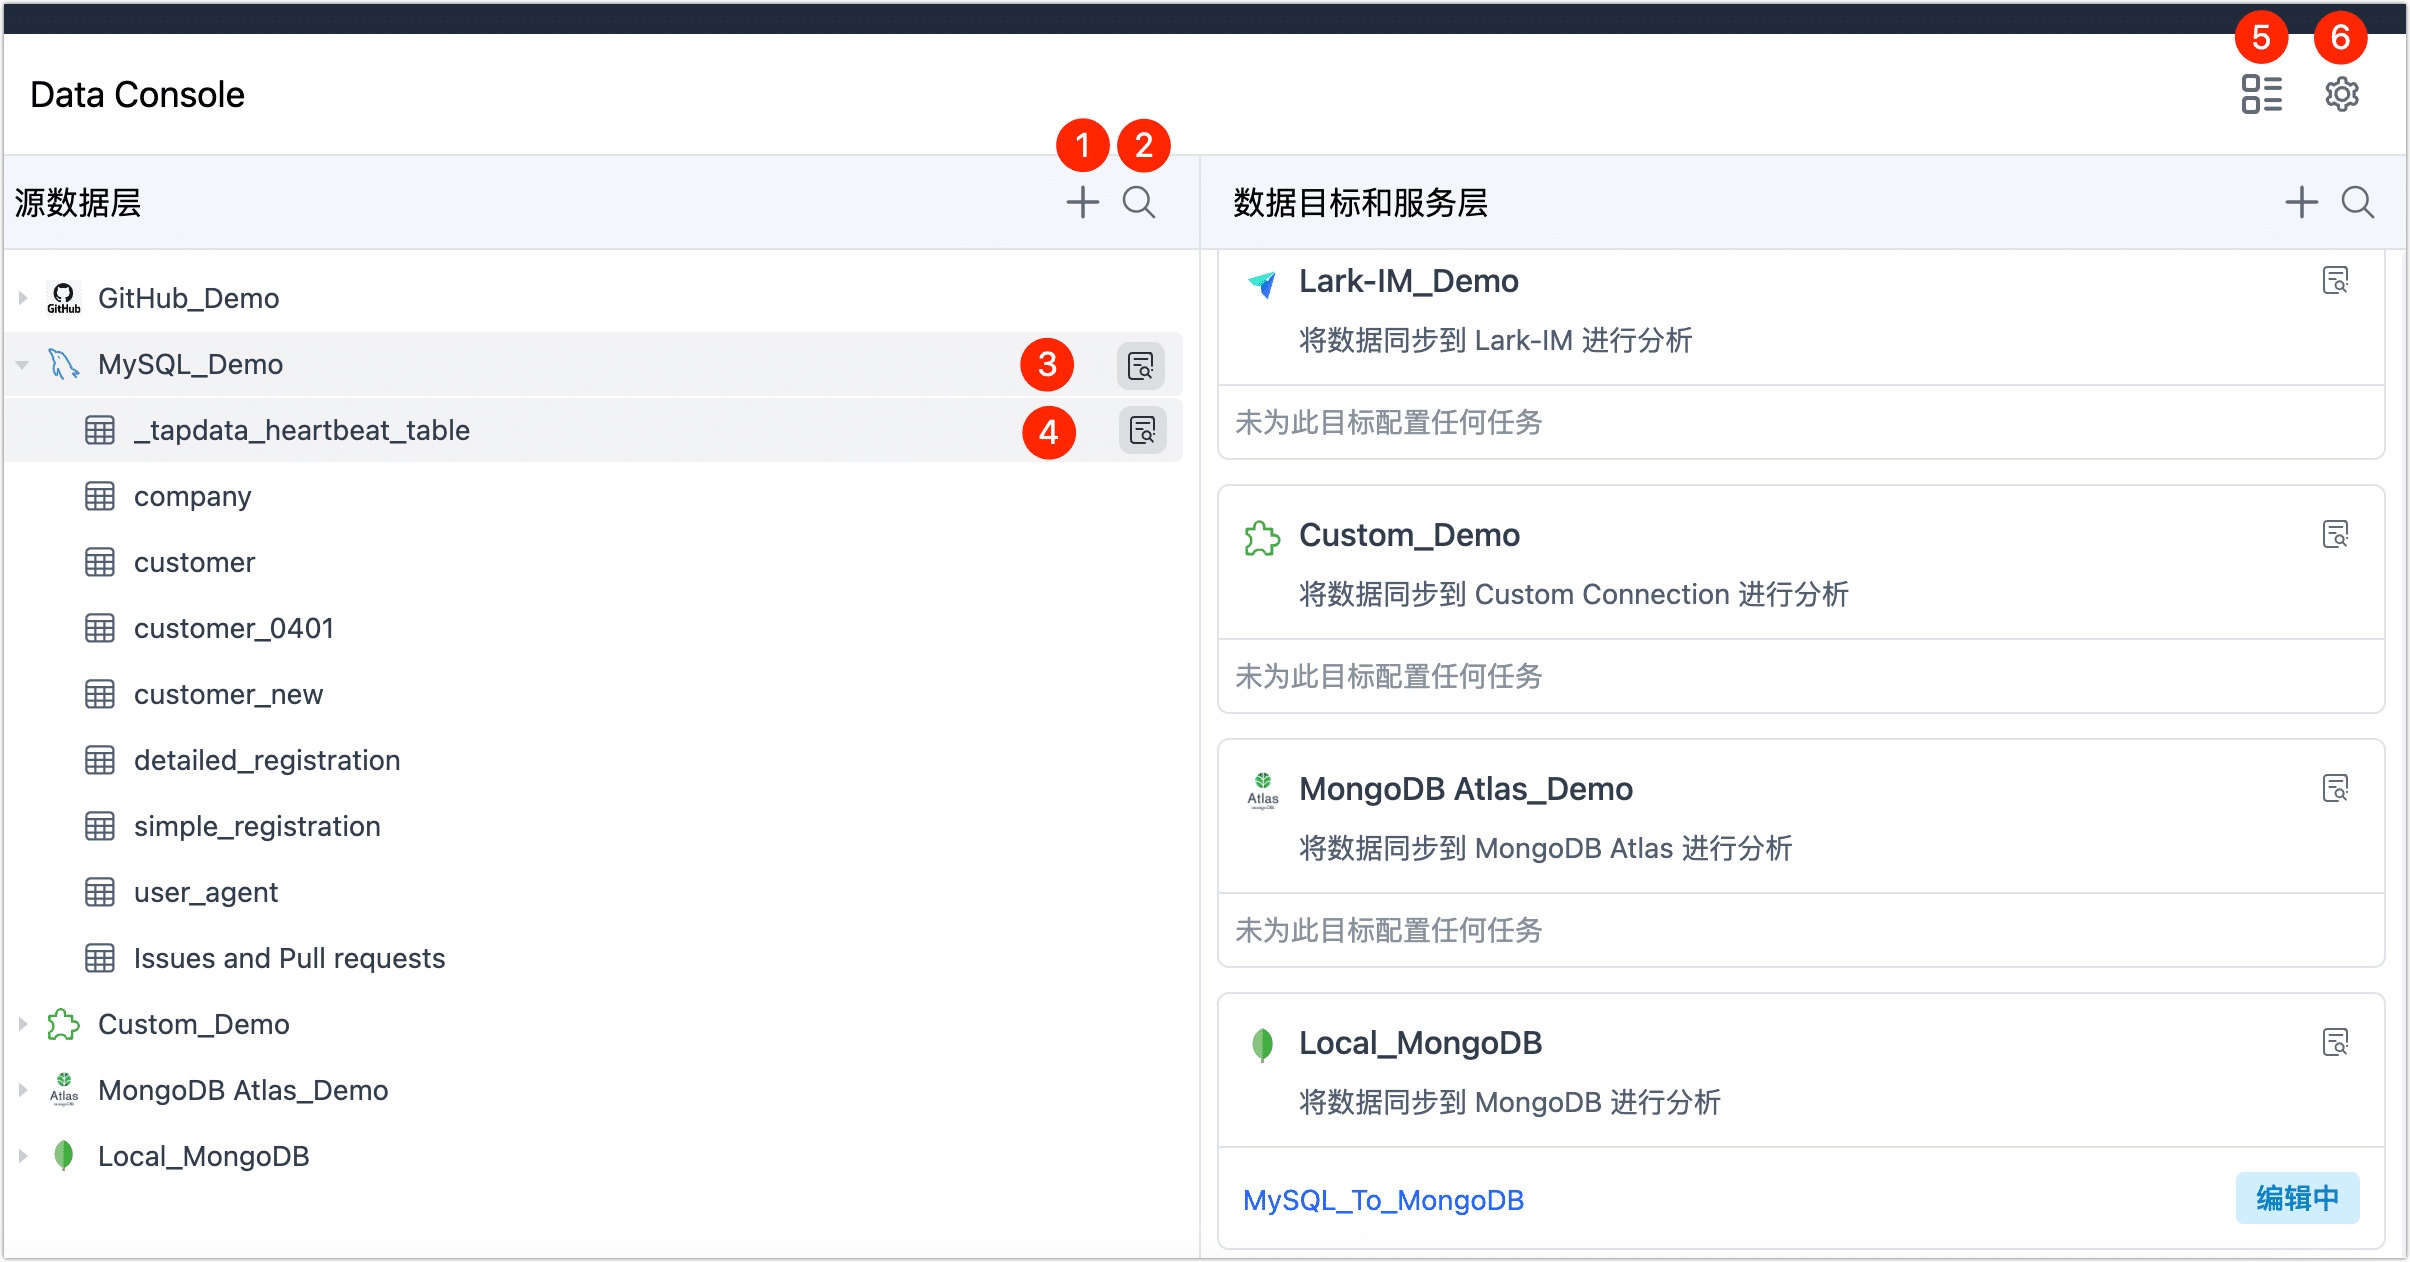
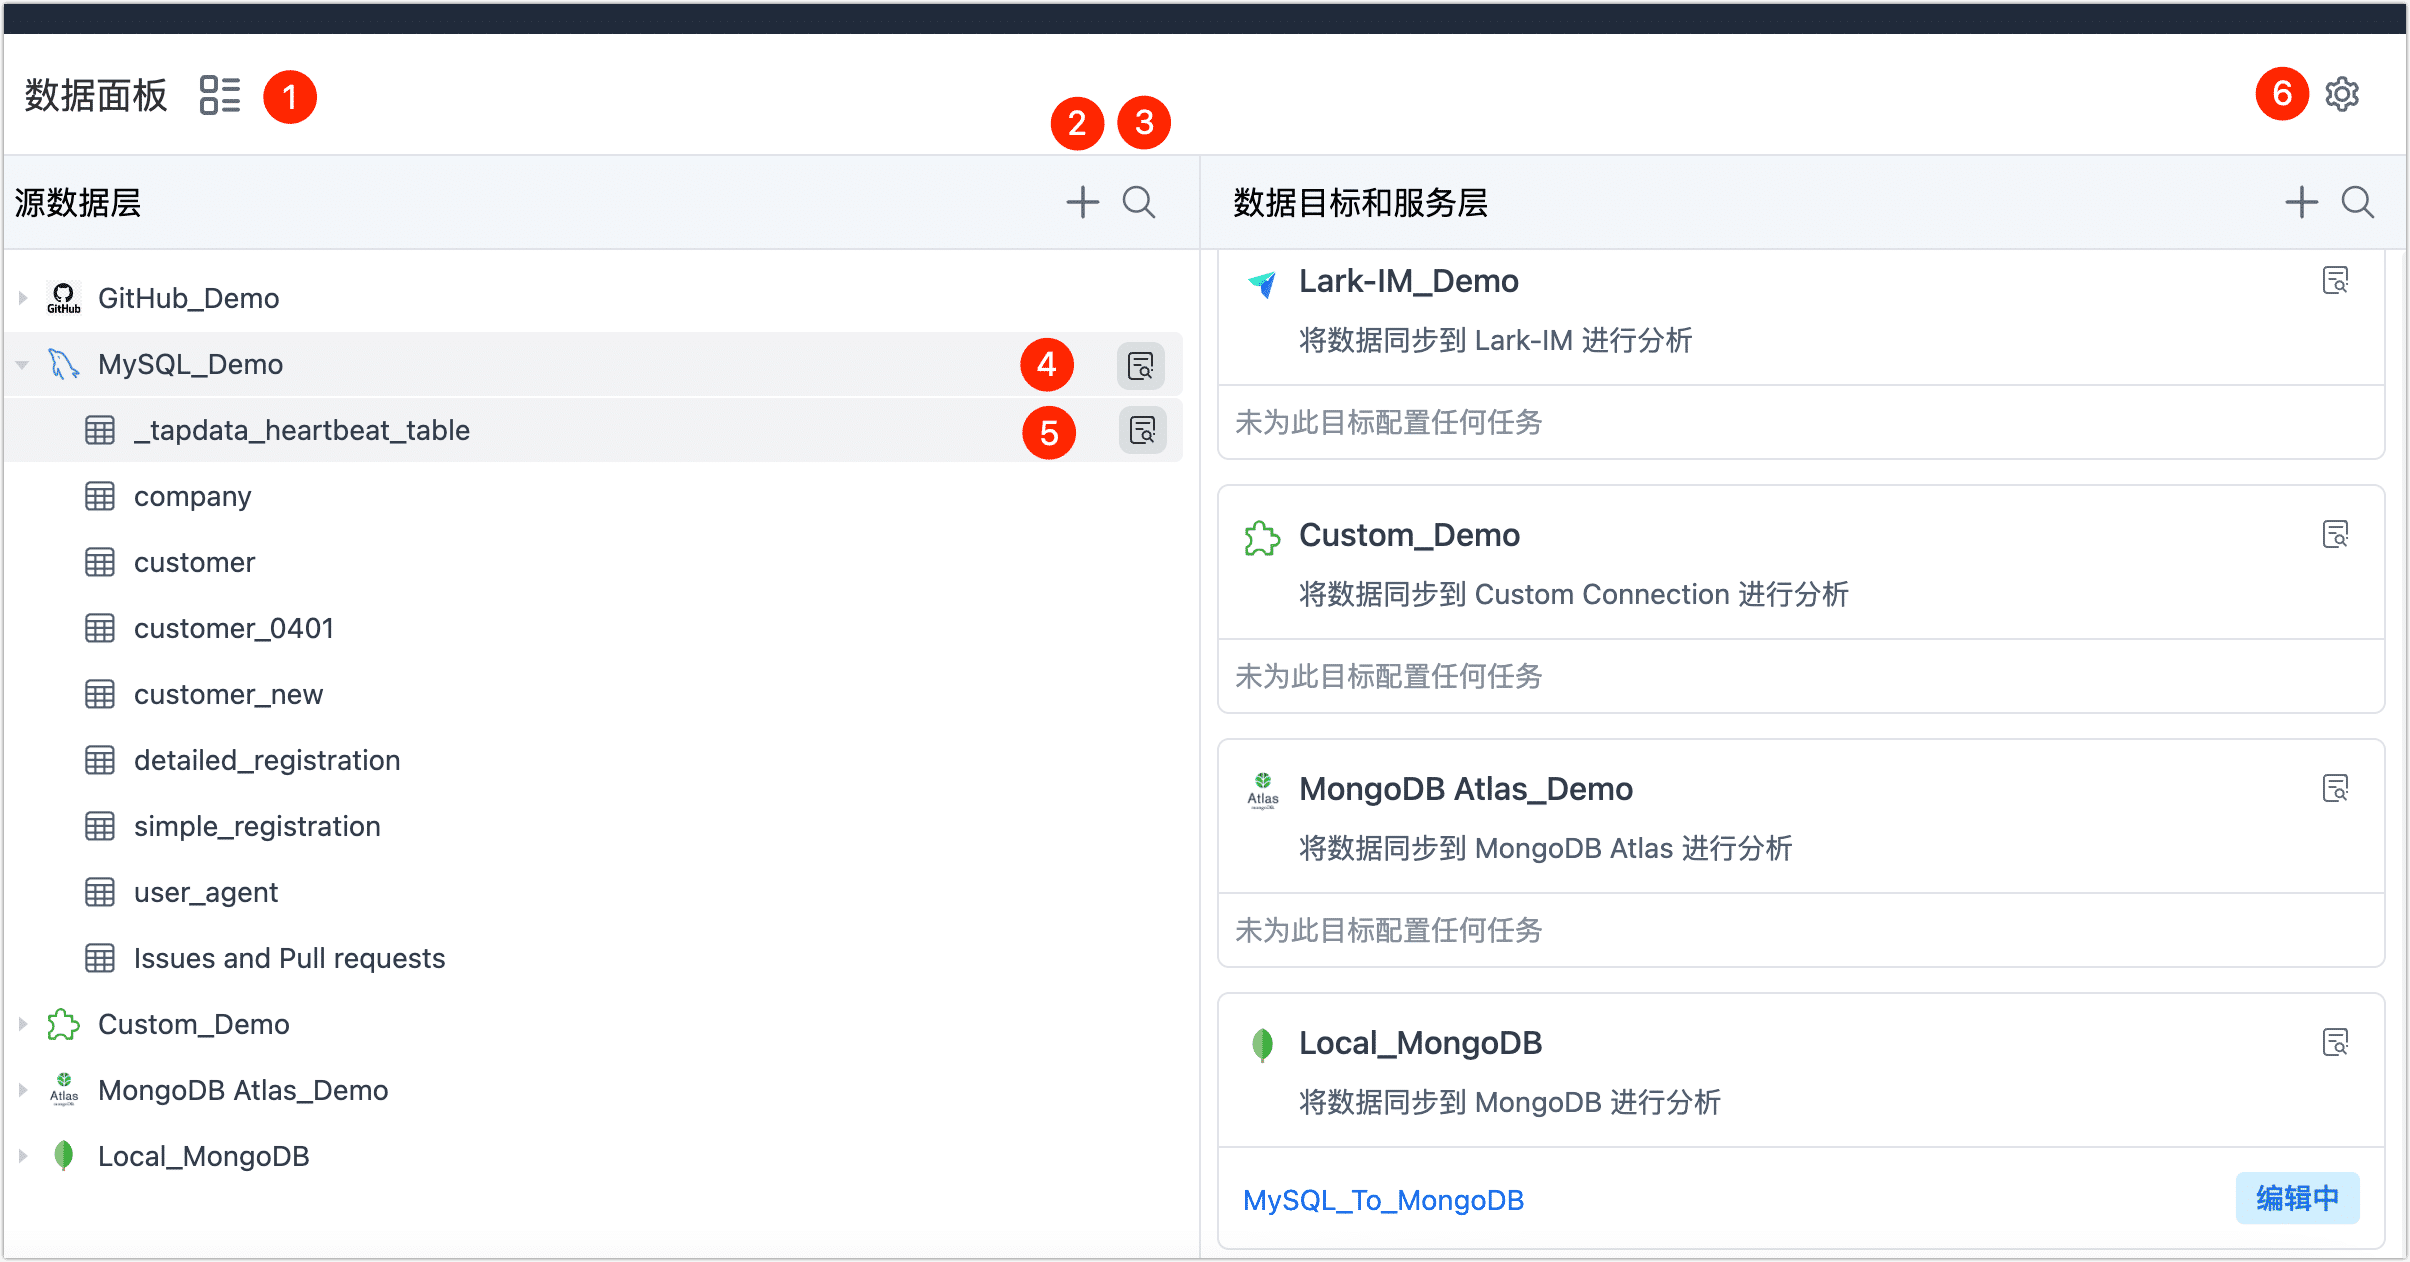
Features: Add Live Data Platform Chapter

diff --git a/docs/cloud/user-guide/data-console/etl-mode/etl-mode-dashboard.md b/docs/cloud/user-guide/data-console/etl-mode/etl-mode-dashboard.md
@@ -24,25 +24,25 @@ import Tabs from '@theme/Tabs';
 import TabItem from '@theme/TabItem';
 
 <Tabs className="unique-tabs">
-    <TabItem value="1" label="① 添加数据源" default>
-    <p>单击<img src='https://deploy-preview-67--tapdata.netlify.app/img/add_icon.png'></img>图标，在弹出的对话框，我们可以添加数据源，选中某个数据源后将跳转至连接配置页面，具体配置方法，见<a href="https://docs.tapdata.io/enterprise/user-guide/connect-database/">连接数据源</a>。</p>
-   </TabItem>
-   <TabItem value="2" label="② 搜索表">
-   <p>单击<img src='https://deploy-preview-67--tapdata.netlify.app/img/search_icon.png'></img>图标，输入表名的关键词，可帮助您快速定位到具体的表，该操作在其他层级的模块中也可使用。</p>
-   <img src='https://deploy-preview-67--tapdata.netlify.app/img/search_table.png'></img>
-   </TabItem>
-   <TabItem value="3" label="③ 数据源详情">
-   <p>在数据连接的右侧，单击<img src='https://deploy-preview-67--tapdata.netlify.app/img/detail_icon.png'></img>图标，页面右侧将展示该数据源的连接信息和关联的任务。</p>
-   <img src='https://deploy-preview-67--tapdata.netlify.app/img/data_source_detail.png'></img>
-   </TabItem>
-   <TabItem value="4" label="④ 表详情">
-   <p>在表名的右侧，单击<img src='https://deploy-preview-67--tapdata.netlify.app/img/detail_icon.png'></img>图标，页面右侧将展示该表关联的任务和表的基本信息，包含表大小、行数、列信息、样本数据、Scheme（如主键/外键） 等。</p>
-   <img src='https://deploy-preview-67--tapdata.netlify.app/img/table_detail.png'></img>
-   </TabItem>
-   <TabItem value="5" label="⑤ 切换视图">
+    <TabItem value="5" label="① 切换视图" default>
    <p>单击<img src='https://deploy-preview-67--tapdata.netlify.app/img/switch_icon.png'></img>图标，以目录结构的形式展现数据源信息（再次单击可切换回 Console 视图），选中具体的表，也可以查看该表关联的任务和表的基本信息，包含表大小、行数、列信息、样本数据、Scheme（如主键/外键) 等。</p>
    <img src='https://deploy-preview-67--tapdata.netlify.app/img/data_category_view.png'></img>
    <p></p>
+   </TabItem>
+    <TabItem value="1" label="② 添加数据源">
+    <p>单击<img src='https://deploy-preview-67--tapdata.netlify.app/img/add_icon.png'></img>图标，在弹出的对话框，我们可以添加数据源，选中某个数据源后将跳转至连接配置页面，具体配置方法，见<a href="https://docs.tapdata.io/enterprise/user-guide/connect-database/">连接数据源</a>。</p>
+   </TabItem>
+   <TabItem value="2" label="③ 搜索表">
+   <p>单击<img src='https://deploy-preview-67--tapdata.netlify.app/img/search_icon.png'></img>图标，输入表名的关键词，可帮助您快速定位到具体的表，该操作在其他层级的模块中也可使用。</p>
+   <img src='https://deploy-preview-67--tapdata.netlify.app/img/search_table.png'></img>
+   </TabItem>
+   <TabItem value="3" label="④ 数据源详情">
+   <p>在数据连接的右侧，单击<img src='https://deploy-preview-67--tapdata.netlify.app/img/detail_icon.png'></img>图标，页面右侧将展示该数据源的连接信息和关联的任务。</p>
+   <img src='https://deploy-preview-67--tapdata.netlify.app/img/data_source_detail.png'></img>
+   </TabItem>
+   <TabItem value="4" label="⑤ 表详情">
+   <p>在表名的右侧，单击<img src='https://deploy-preview-67--tapdata.netlify.app/img/detail_icon.png'></img>图标，页面右侧将展示该表关联的任务和表的基本信息，包含表大小、行数、列信息、样本数据、Scheme（如主键/外键） 等。</p>
+   <img src='https://deploy-preview-67--tapdata.netlify.app/img/table_detail.png'></img>
    </TabItem>
    <TabItem value="6" label="⑥ 切换模式">
    <p>单击<img src='https://deploy-preview-67--tapdata.netlify.app/img/setting_icon.png'></img>图标，在弹出的对话框中，可选择<a href="https://deploy-preview-67--tapdata.netlify.app/enterprise/user-guide/data-console/daas-mode/enable-daas-mode">开启数据服务平台模式（Beta）</a>，将数据实时同步至平台缓存层。</p>

diff --git a/docs/cloud/introduction/benefits.md b/docs/cloud/introduction/benefits.md
@@ -1,25 +1,29 @@
 # 产品优势
 
-### 创新的实时数据同步技术
+## 创新的实时数据同步技术
 
 创新性地将数据库 CDC 技术与流式计算技术融合，将数据同步过程中的数据处理过程向用户开放，让数据同步不再是单一的复制，使得用户可以基于数据实现更多创新可能。
 
-### 零代码可视化拖拽操作
+## 统一的数据服务平台
+
+基于数据分层治理的理念，可将分散在不同业务系统的数据同步至统一的平台缓存层，最大限度地降低数据提取对业务的影响，为后续的数据加工和业务提供基础数据，从而构建一致、实时的数据平台，连通数据孤岛。
+
+## 零代码可视化拖拽操作
 
 TapData Cloud 数据同步任务的编排与设置流程支持拖拽式零代码可视化操作，支持多级多节点同时同步操作，极大的降低了同步任务流定义的复杂度，提升了效率和质量。
 
-### 完美支持SQL -> NoSQL
+## 完美支持SQL -> NoSQL
 
 完美的 JSON 支持，可通过拖拽的方式轻松实现从关系型数据库到非关系型数据实时同步，同时还支持一对一、多对一、一对多等多种建模方式，轻松帮助用户实现数据库现代化。
 
-### 全面的数据库支持
+## 全面的数据库支持
 
 全面支持主流的开源数据库及商业数据库以及消息类中间件，包括 MongoDB、MySQL、Oracle、SQL Server、DB2、elastic、Kafka、Sybase、PostgreSQL、Redis、GaussDB 等。
 
-### 可视化任务运行监控
+## 可视化任务运行监控
 
 通过可视化界面对数据传输任务的运行状态进行监控，用户可以快速掌握各个任务及节点的数据读取统计、数据写入统计、延迟统计等方面进行数据运行监控统计。
 
-### 充分设计的安全保障
+## 充分设计的安全保障
 
 用户数据安全优先的架构设计，用户信息、任务信息全程加密的安全措施，充分保障用户的信息安全和数据安全，更多介绍，见[产品架构与工作原理](architecture.md)。

diff --git a/docs/cloud/introduction/features.md b/docs/cloud/introduction/features.md
@@ -1,15 +1,31 @@
 # 功能特性
 
-### 数据同步
+本文介绍 Tapdata Cloud 的功能特性，帮助您快速了解其核心能力。
 
-Tapdata Cloud的数据同步包括全量同步和实时增量同步两部分。在不同场景下，您可以选择使用两种模式的组合来完成不同诉求。实现的过程如下图所示。
+## 数据复制
 
-![](../images/features.png)
+Tapdata Cloud 的数据同步包括全量同步和实时增量同步两部分，可帮助您快速实现同/异构数据源间的实时同步，适用于数据迁移/同步、数据灾备、读性能扩展等多种[业务场景](use-cases.md)，实现的过程如下图所示。
 
-### 支持的数据源
+![数据复制工作流程](../images/features_data_copy.png)
 
-详见[支持的数据源](supported-databases.md)。
 
-### 准备工作
 
-为了能够成功的使用数据Tapdata Cloud数据同步功能，您需要部署并规划您的网络访问，设置访问权限，详见[准备工作](https://www.yuque.com/knbase/tapdata-cloud/zhun-bei-gong-zuo_readme)。
+## 数据开发
+
+针对复杂的数据处理需求，Tapdata Cloud 在数据复制能力的基础上，支持在数据源间增加多种[处理节点](../user-guide/data-development/process-node.md)，快速实现多表合并、数据拆分、字段增减、共享挖掘等高级数据处理需求。
+
+![数据开发工作流程](../images/features_data_dev.png)
+
+
+
+## 数据即服务（DaaS）
+
+借助 Tapdata Cloud 的[数据服务平台模式](../user-guide/data-console/daas-mode/enable-daas-mode.md)，您可以将分散在不同业务系统的数据同步至统一的平台缓存层，可为后续的数据加工和业务提供基础数据，从根源上避免直接读取/操作源库的数据带来的的性能影响，从而构建一致、实时的数据平台，连通数据孤岛。
+
+![数据服务平台架构](../images/features_daas.png)
+
+
+
+## 支持的数据源
+
+Tapdata Cloud 支持丰富的数据源，详见[支持的数据源](supported-databases.md)。

diff --git a/docs/cloud/what-is-tapdata-cloud.md b/docs/cloud/what-is-tapdata-cloud.md
@@ -13,19 +13,23 @@ Tapdata Cloud 是由 Tapdata 提供的集数据复制、数据开发为一体的
 
 相对于传统数据迁移/同步工具，Tapdata Cloud 可为您提供功能丰富、简单易用、安全可靠的数据流转服务，提升数据开发效率。
 
-* 开箱即用
+* **开箱即用**
 
-  您只需注册一个帐户，根据平台一键部署 Tapdata Agent，即可立即开始数据同步。
+  您只需[注册一个帐户](https://cloud.tapdata.net/console/v3/#/)，基于运行平台（如 Linux）一键部署 Tapdata Agent，即可立即开始数据同步。
 
-* 丰富的数据库支持
+* **[丰富的数据库支持](introduction/supported-databases.md)**
 
-  支持主流数据库，包括商业数据库、开源数据库、SaaS 平台数据源，并支持自定义数据源。更多介绍，见[支持的数据库](introduction/supported-databases.md)。
+  支持主流数据库，包括商业数据库、开源数据库、云数据库、SaaS 平台数据源、文件数据源等，并支持自定义数据源。
 
-* 可靠的数据一致性
+* **可靠的数据一致性**
 
-  Tapdata 通过多种自研技术，保障目标端数据与源数据的高一致性，支持多种校验方式，保障生产环境的严苛要求。
+  通过多种自研技术，保障目标端数据与源数据的高一致性，支持多种校验方式，保障生产环境的严苛要求。  
 
-- 无代码的操作页面
+* **[统一的数据服务平台](user-guide/data-console/daas-mode/enable-daas-mode.md)**
+
+  基于数据分层治理的理念，可将分散在不同业务系统的数据同步至统一的平台缓存层，最大限度地降低数据提取对业务的影响，为后续的数据加工和业务提供基础数据，从而构建一致、实时的数据平台，连通数据孤岛。
+
+* **[无代码的操作页面](user-guide/workshop.md)**
 
   告别 SQL 与代码，只需简单的鼠标拖拉拽即可快速完成重命名表等转换规则，此外还支持基于 Javascript 的 UDF 功能。
 

diff --git a/docs/cloud/introduction/architecture.md b/docs/cloud/introduction/architecture.md
@@ -1,10 +1,10 @@
 # 产品架构与工作原理
 
-Tapdata Cloud 组件包含 Tapdata cloud manager 和 Tapdata agent：
+Tapdata Cloud 组件包含 Tapdata Cloud manager 和 Tapdata Agent：
 
-* **Tapdata cloud manager**（TCM）：Tapdata Cloud 的管理端，负责 agent 实例的安装，同步任务的配置、分发、任务状态监测。
+* **Tapdata Cloud Manager**（TCM）：Tapdata Cloud 的管理端，负责 agent 实例的安装，同步任务的配置、分发、任务状态监测。
 
-* **Tapdata agent**：是 Tapdata Cloud 数据同步服务的执行实例，负责从 TCM 获取任务信息，通过流式技术从源系统获取数据、处理转换数据并发送到目标系统，并在任务执行过程中监测并上报任务状态至 TCM 。
+* **Tapdata Agent**：是 Tapdata Cloud 数据同步服务的执行实例，负责从 TCM 获取任务信息，通过流式技术从源系统获取数据、处理转换数据并发送到目标系统，并在任务执行过程中监测并上报任务状态至 TCM 。
 
 ![](../images/architecture.png)
 

diff --git a/docs/cloud/user-guide/data-console/etl-mode/create-etl-task.md b/docs/cloud/user-guide/data-console/etl-mode/create-etl-task.md
@@ -22,6 +22,6 @@
 
    - **保存并运行**：无需执行额外的操作，由 Tapdata Cloud 自动创建一个数据开发任务并运行，将您的源表实时同步到选定的目标库中。在本案例中，Tapdata Cloud 会将源 MySQL 中的 **customer** 表实时同步到 MongoDB 中。
 
-     您也可以单机目标库卡片中的任务名称，进入任务监控页面查看详细的运行状态，更多介绍，见[监控任务](../data-development/monitor-task.md)。
+     您也可以单击目标库卡片中的任务名称，进入任务监控页面查看详细的运行状态，更多介绍，见[监控任务](../../data-development/monitor-task.md)。
 
    

diff --git a/docs/cloud/user-guide/data-console/daas-mode/create-daas-task.md b/docs/cloud/user-guide/data-console/daas-mode/create-daas-task.md
@@ -69,7 +69,7 @@ import TabItem from '@theme/TabItem';
     </ul>
     </li>
     <p></p>
-    <p>完成设置后，Tapdata 将自动创建一个数据开发任务，将您的源表实时同步到选定的目标库中，提供给最终业务。</p>
+    <p>完成设置后，Tapdata 将自动创建一个数据开发任务，将您的源表实时同步到选定的目标库中，提供给最终业务。您还可以单击目标库卡片中的任务名称，进入任务监控页面查看详细的运行状态，更多介绍，见[监控任务](../../data-development/monitor-task.md)。</p>
     </ol>
    </TabItem>
   </Tabs>

diff --git a/docs/cloud/quick-start/create-task.md b/docs/cloud/quick-start/create-task.md
@@ -9,5 +9,6 @@
 
 ## 扩展阅读
 
+* [开启数据服务平台模式](../user-guide/data-console/daas-mode/enable-daas-mode.md)
 * [支持的数据源](../introduction/supported-databases.md)
 * [最佳实践文档](../best-practice/README.md)

diff --git a/docs/cloud/introduction/supported-databases.md b/docs/cloud/introduction/supported-databases.md
@@ -1,6 +1,6 @@
-# 支持的数据库
+# 支持的数据源
 
-Tapdata Cloud 支持丰富的数据库，具体如下：
+Tapdata Cloud 支持丰富的数据源，具体如下：
 
 ### 认证数据源
 
